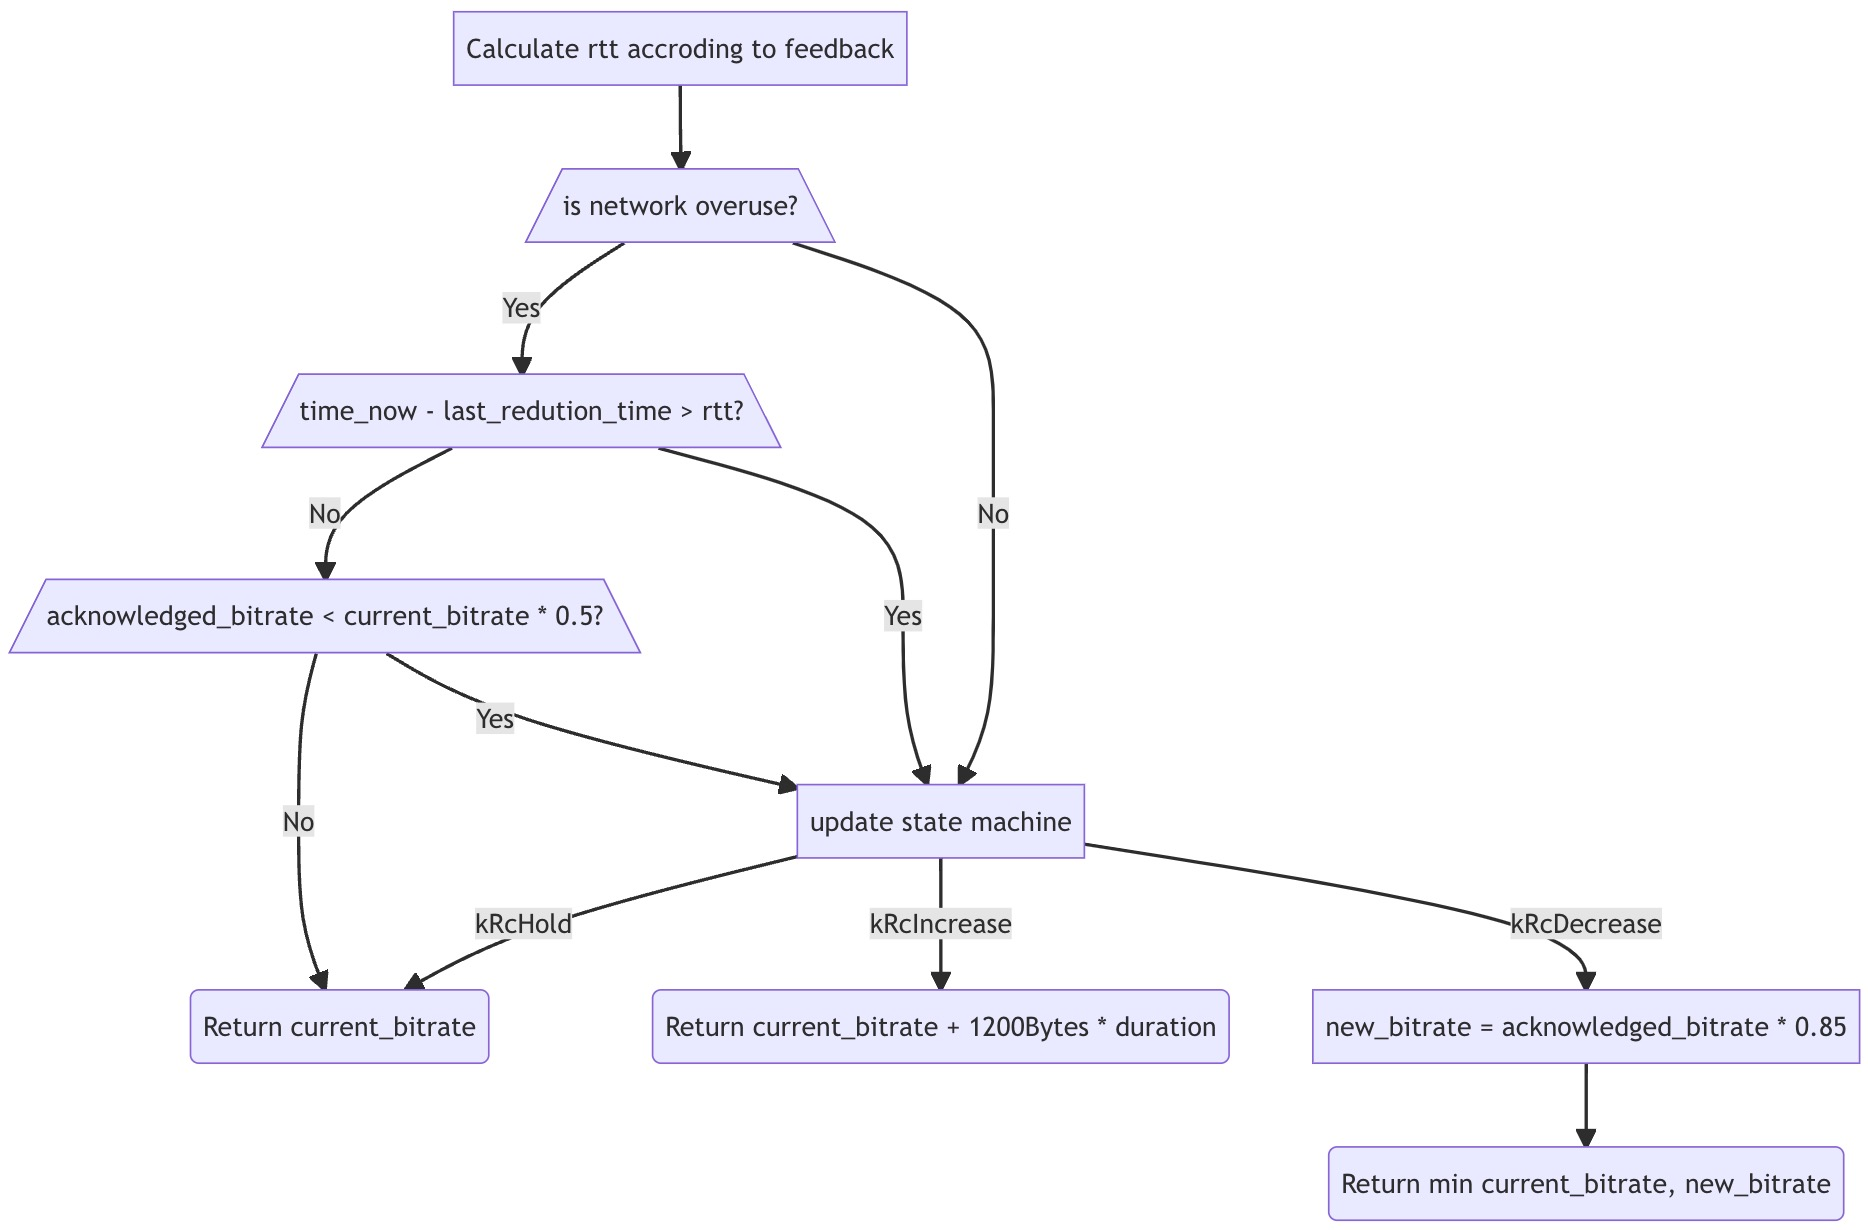
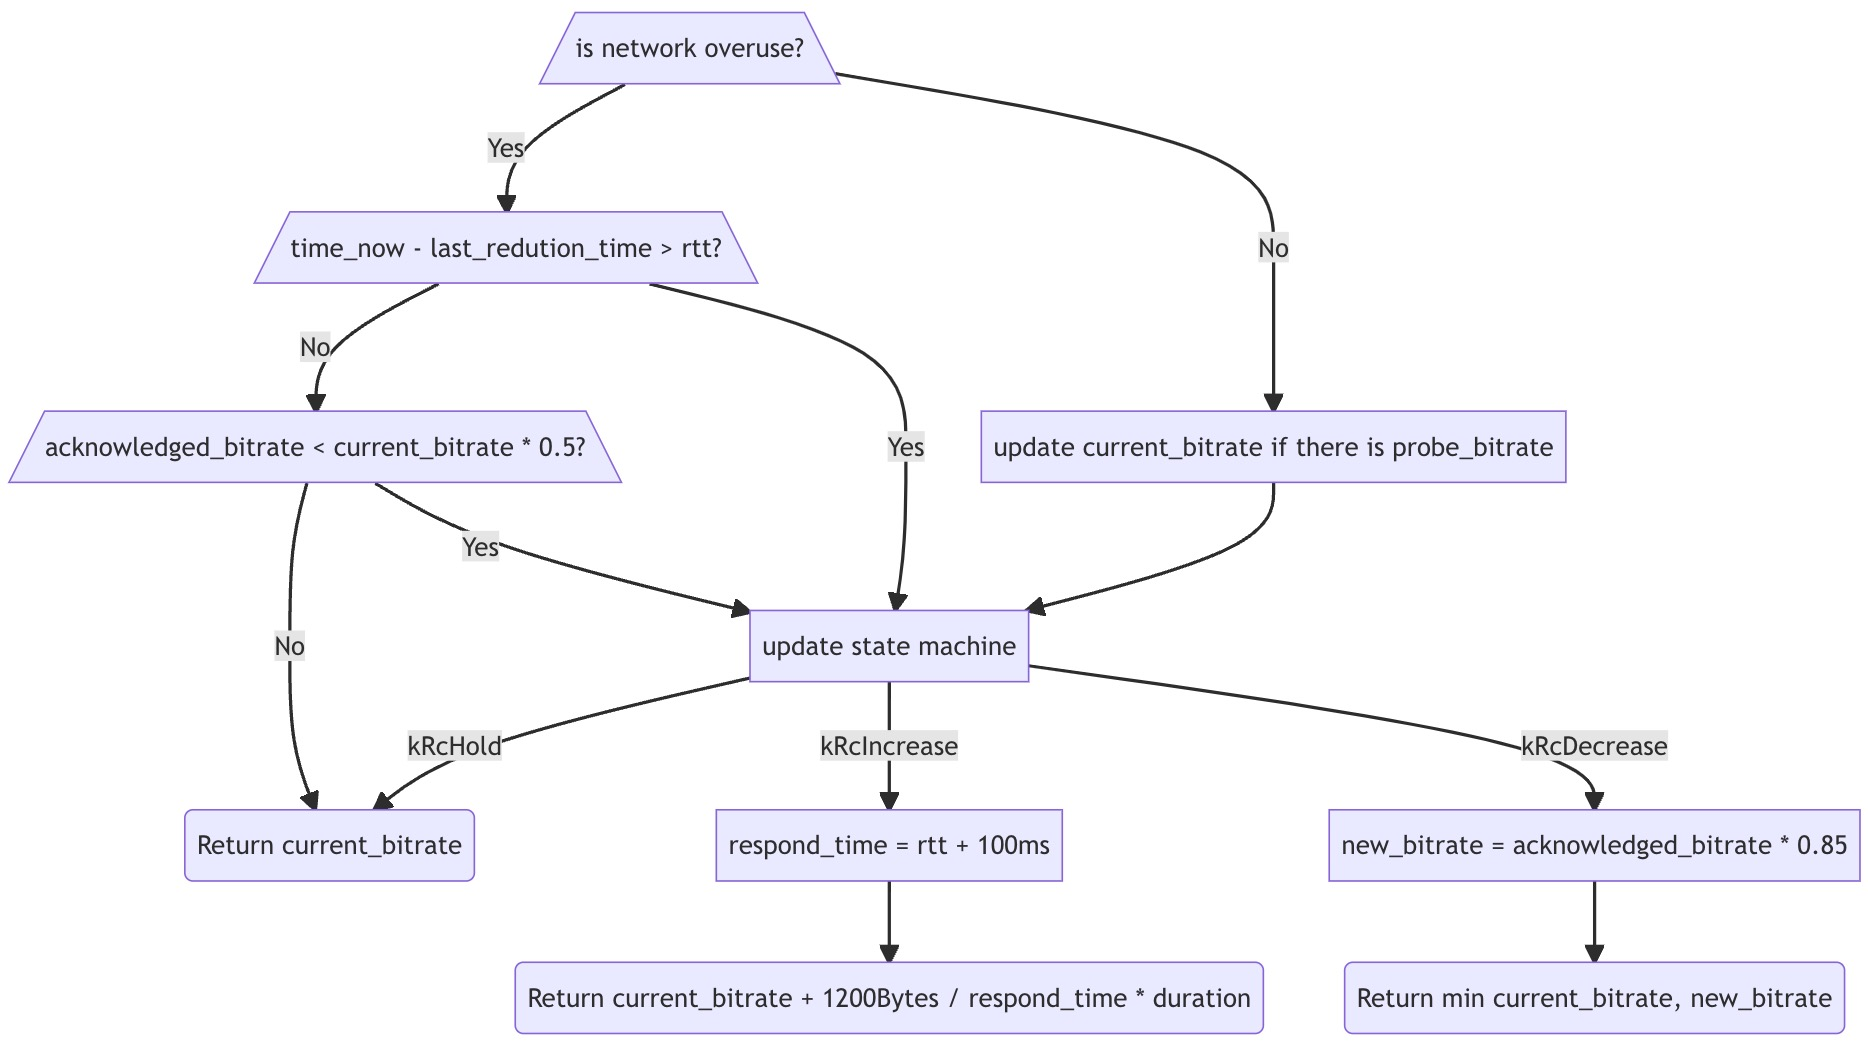
update: GCC Bandwidth Detection

diff --git a/_posts/2022-01-18-GCC-Bandwidth-Detection.md b/_posts/2022-01-18-GCC-Bandwidth-Detection.md
@@ -63,7 +63,7 @@ _ProbeController状态机_
 - 当处于`kProbingComplete`状态，并且触发询问事件的原因是应用从网络拥塞中恢复时，查询最近是否有进入alr，如果有，则以当前带宽的2倍进行一次探测。
 
 ### 通过探测包的反馈估计带宽
-Pacer得到目标探测码率后，开始发送探测包。接收端不需要识别是否是探测包，统一根据Transport CC协议返回feedback即可。发送端收到feedback后，根据id判断它对应的是探测包还是普通媒体包。如果是探测包，则传给ProbeBitrateEstimator，用于计算主动探测的带宽。ProbeBitrateEstimator首先用该组探测包的总数据量除以首包和尾包的时间间隔得到码率，再按照下图流程进行调整。图中接收码率低于发送码率的0.9倍时，算法认为发送码率已经达到网络通道的瓶颈，为了防止发生网络拥塞，所以额外降低了码率。
+Pacer得到目标探测码率后，开始发送探测包。接收端不需要识别是否是探测包，统一根据TransportCC协议返回feedback即可。发送端收到feedback后，根据id判断它对应的是探测包还是普通媒体包。如果是探测包，则传给ProbeBitrateEstimator，用于计算主动探测的带宽。ProbeBitrateEstimator首先用该组探测包的总数据量除以首包和尾包的时间间隔得到码率，再按照下图流程进行调整。图中接收码率低于发送码率的0.9倍时，算法认为发送码率已经达到网络通道的瓶颈，为了防止发生网络拥塞，所以额外降低了码率。
 
 ![主动探测带宽的计算过程](/posts/2022-01-18/probe_bitrate.jpg)
 _主动探测带宽的计算过程_
@@ -71,7 +71,7 @@ _主动探测带宽的计算过程_
 可以看到整个主动探测过程使用了大量的经验值，实现并不美观，令人担心其普适性。幸运的是主动探测的主要作用仅仅是在对话开启或网络发生状况时快速上探带宽，防止画面长时间模糊。上探完成后，GCC有更精细的算法去进一步调整评估结果。
 
 ## 对端接收码率评估（AcknowledgedBitrateEstimator）
-该类利用Transport CC的feedback计算对端实际接收到的码率，乍看之下和上节的ProbeBitrateEstimator功能类似。但实际上，由于probe过程是分组进行的，而媒体数据的发送却是连续不断的，所以后者的接收码率计算方式可以设计得更鲁棒一些。实际上，该类是通过贝叶斯估计的方式不断更新码率的，这里直接上源码，还是挺好读的：
+该类利用TransportCC的feedback计算对端实际接收到的码率，乍看之下和上节的ProbeBitrateEstimator功能类似。但实际上，由于probe过程是分组进行的，而媒体数据的发送却是连续不断的，所以后者的接收码率计算方式可以设计得更鲁棒一些。实际上，该类是通过贝叶斯估计的方式不断更新码率的，这里直接上源码，还是挺好读的：
 ```c++
   // 以150ms为周期，计算该时间段内的码率，作为一个码率样本 bitrate_sample
   // .....
@@ -93,14 +93,14 @@ _主动探测带宽的计算过程_
 ```
 
 ## 基于时延的带宽估计（DelayBasedBwe）
-该类是GCC最重要的模块，包含两个主要功能。一是根据transport cc反馈的时间信息来探测当前网络状态
+该类是GCC最重要的模块，包含两个主要功能。一是根据TransportCC反馈的时间信息来探测当前网络状态
 ；二是根据得到的网络状态调整预测带宽。前者由成员`TrendlineEstimator`实现，后者由成员`AimdRateControl`实现：
 
 ![DelayBasedBwe的构成](/posts/2022-01-18/delay_based_bwe.jpg)
 _DelayBasedBwe的构成_
 
 ### 网络拥塞状态的探测（TrendlineEstimator）
-TCP传输一般是根据是丢包来判断网络是否发生拥塞的。但是发生丢包时，传输时延往往已经由于网络节点的buffer而增加了。所以对于时延敏感的RTC应用来说，需要更早的探测到拥塞。最直接的办法就是根据时延的变化来探测。在TransportCC中存储着一组媒体包的对端接收时间（arrive_time, AT）。利用它和本地的发送历史（send time，ST），可以计算出每个媒体包的网络传输耗时的变化：
+TCP传输一般是根据丢包来判断网络是否发生拥塞的。但是发生丢包时，传输时延往往已经由于网络节点的buffer而增加了。所以对于时延敏感的RTC应用来说，需要更早的探测到拥塞。最直接的办法就是根据时延的变化来探测。在TransportCC中存储着一组媒体包的对端接收时间（arrive_time, AT）。利用它和本地的发送历史（send time，ST），可以计算出每个媒体包的网络传输耗时的变化：
 
 $$ delta = (AT_{2} - ST_{2}) - (AT_{1} - ST_{1}) $$
 
@@ -114,6 +114,12 @@ _AimdRateControl内部状态机_
 
 ![AimdRateControl处理流程](/posts/2022-01-18/aimd_flow.jpg)
 _AimdRateControl处理流程_
+
+这里对流程图做几点说明：
+- 为了保证输出带宽曲线的平滑，图中使用的rtt是ReceivedReport（一种对端反馈的RTCP包，包含的信息能够帮助本地计算出rtt等信息[2]）中的rtt的平均值。
+- `1200Bytes / respond_time * duration` 中的1200Bytes表示一个网络包的平均大小，respond_time暂时可以看做rtt，duration指的是两次处理的间隔。也就是说，这个计算追求的效果是每个rtt多发一个包。这和TCP的增窗算法很像。
+- 至于为什么rtt要额外加100ms，按照代码注释的说明，应该是给拥塞探测的延迟预留的。考虑到TransportCC的传输间隔和时间，以及线性拟合本身需要一定的数据量才能体现出时延的变化趋势。从拥塞实际发生到trendline探测到它之间一般有几十到几百毫秒的延迟。所以这里保守起见预留了100ms延迟，进一步降低网络拥塞对通信质量的影响。当然，代价就是某些情况下带宽上探得更慢了。
+- 图中省略了许多输出上下限Clip的操作，这些操作可以防止带宽波动过大以及无限制的上探等问题，不过全都贴上来就显得太琐碎了。
 
 ## 带宽的最终决策（SendSideBandwidthEstimation）
 To be continued.
